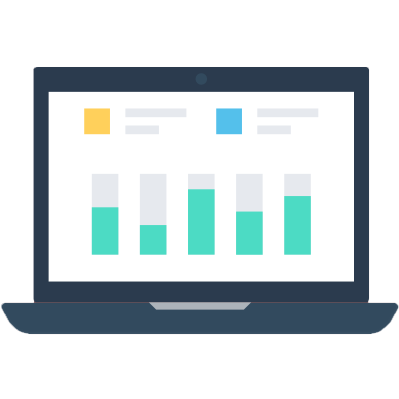
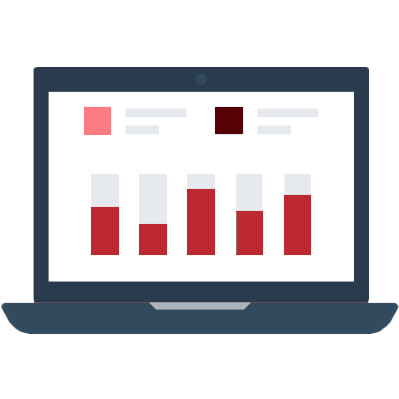
red theme changes

diff --git a/index.html b/index.html
@@ -11,9 +11,9 @@
 
   gtag('config', 'UA-142700427-1');
 </script>
-  
-  
-  
+
+
+
   <meta charset="utf-8" />
   <!-- To ensure proper rendering and touch zooming -->
   <meta name="viewport" content="width=device-width, initial-scale=1.0 maximum-scale=1.0, user-scalable=no, minimal-ui">
@@ -67,11 +67,11 @@
     <![endif]-->
   <style>
     @import url('fonts/GothamMedium-Regular.css');
-        @import url('fonts/GothamThin-Regular.css');
-        @import url('fonts/Gotham-Light.css');
-        @import url('fonts/ProximaNova-Light.css');
-        @import url('fonts/ProximaNova-Regular.css');
-    </style>
+    @import url('fonts/GothamThin-Regular.css');
+    @import url('fonts/Gotham-Light.css');
+    @import url('fonts/ProximaNova-Light.css');
+    @import url('fonts/ProximaNova-Regular.css');
+  </style>
 </head>
 
 <body>
@@ -103,7 +103,7 @@
   <!--  </div>-->
   <div id="sections">
     <div class="section container-fluid" id="availability">
-      <img alt="wifi" class="img-responsive center-block" src="images/cartoonCal.jpg">
+      <img alt="wifi" class="img-responsive center-block" src="images/cartoonCalred.jpg">
       <h1 class="subheader">Availability Manager</h1>
       <p><b>Take control of your time</b> by setting and editing your available hours around your personal schedule.</p>
       <p><i>"Car broke down? Can't make an appointment? Let your customer know and allow them to reschedule."</i></p>
@@ -122,64 +122,105 @@
     </div>
     <div class="section container-fluid" id="business">
       <img alt="email" class="img-responsive center-block" src="images/laptop.png">
-        
+
       <h1 class="subheader">Analytics and Statistics</h1>
       <p><b>Grow your following</b> and keep track of your active customers to keep them informed.</p>
       <p><i>"Sit back and watch your earnings grow."</i></p>
-        <div style="font-size: 12px">Icons made by <a href="https://www.flaticon.com/authors/vectors-market" title="Vectors Market">Vectors Market</a> from <a href="https://www.flaticon.com/"                 title="Flaticon">www.flaticon.com</a> is licensed by <a href="http://creativecommons.org/licenses/by/3.0/"                 title="Creative Commons BY 3.0" target="_blank">CC 3.0 BY</a></div>
+      <div style="font-size: 12px">Icons made by <a href="https://www.flaticon.com/authors/vectors-market" title="Vectors Market">Vectors Market</a> from <a href="https://www.flaticon.com/" title="Flaticon">www.flaticon.com</a> is licensed by <a href="http://creativecommons.org/licenses/by/3.0/" title="Creative Commons BY 3.0" target="_blank">CC 3.0 BY</a></div>
     </div>
     <div class="section container-fluid" id=beta>
-      <h1 class="subheader">START HUSTLING<br><small>SydeHustle</small></h1>
-      
-        
-        
-      <ul>
-          <!-- Begin Mailchimp Signup Form -->
-<link href="//cdn-images.mailchimp.com/embedcode/classic-10_7.css" rel="stylesheet" type="text/css">
-<style type="text/css">
-	#mc_embed_signup{background:transparent; clear:left; font:16px Bebas,Arial,sans-serif; }
-	/* Add your own Mailchimp form style overrides in your site stylesheet or in this style block.
-	   We recommend moving this block and the preceding CSS link to the HEAD of your HTML file. */
-</style>
-<div id="mc_embed_signup">
-<form action="https://sydehustle.us3.list-manage.com/subscribe/post?u=0788cb29f1caa279d833e0827&amp;id=5337497d90" method="post" id="mc-embedded-subscribe-form" name="mc-embedded-subscribe-form" class="validate" target="_blank" novalidate>
-    <div id="mc_embed_signup_scroll">
-            <div class="mdl-textfield mdl-js-textfield mdl-textfield--floating-label">
-              <input type="email" value="" name="EMAIL" class="required email mdl-textfield__input input-style" id="mce-EMAIL">
-              <label for="mce-EMAIL" class="mdl-textfield__label input-style">EMAIL ADDRESS</label>
-            </div>
-            <br>
-            <div class="mdl-textfield mdl-js-textfield mdl-textfield--floating-label input-name">
-              <input type="text" value="" name="FNAME" class="required mdl-textfield__input input-style" id="mce-FNAME">
-              <label for="mce-FNAME" class="mdl-textfield__label input-style">FIRST NAME</label>
-            </div>
-            <div class="mdl-textfield mdl-js-textfield mdl-textfield--floating-label input-name">
-              <input type="text" value="" name="LNAME" class="mdl-textfield__input input-style" id="mce-LNAME">
-              <label for="mce-LNAME" class="mdl-textfield__label input-style">LAST NAME</label>
-            </div>
-            <div id="mce-responses" class="clear">
-              <div class="response" id="mce-error-response" style="display:none;"></div>
-              <div class="response" id="mce-success-response" style="display:none"></div>
-            </div>
-            <!-- real people should not fill this in and expect good things - do not remove this or risk form bot signups-->
-            <div style="position: absolute; left: -5000px;" aria-hidden="true">
-              <input type="text" name="b_1208f3fd97840ead28d1bb805_62d65557ca" tabindex="-1" value="">
-            </div>
-            <br>
-            <div class="clear">
-              <button class="mdl-button mdl-js-button mdl-button--raised mdl-js-ripple-effect subscribe-btn-format" onclick="location.href = 'http://app.sydehustle.co/#/';">
-                <h1 class="btn-txt-color">Subscribe</h1>
-              </button>
+      <h1 class="subheader" style="padding-left: 2.5%;">START HUSTLING<br><small>SydeHustle</small></h1>
+      <div id="talk"></div>
 
+
+      <ul>
+        <!-- Begin Mailchimp Signup Form -->
+        <link href="//cdn-images.mailchimp.com/embedcode/classic-10_7.css" rel="stylesheet" type="text/css">
+        <style type="text/css">
+          #mc_embed_signup {
+            background: transparent;
+            clear: left;
+            font: 16px Bebas, Arial, sans-serif;
+          }
+
+          .sub-btn {
+            background-color: #BE2831;
+            border: 1px solid #2A2B2D;
+            padding: 0 112px 0 112px;
+            border-radius: 5px;
+          }
+
+
+          .mdl-textfield.is-focused .mdl-textfield__label {
+            color: white;
+          }
+
+          .mdl-textfield__label:after {
+            background-color: white;
+          }
+
+
+          /* Add your own Mailchimp form style overrides in your site stylesheet or in this style block.
+	   We recommend moving this block and the preceding CSS link to the HEAD of your HTML file. */
+        </style>
+        <div id="mc_embed_signup" style="margin: 0;">
+          <form action="https://sydehustle.us3.list-manage.com/subscribe/post?u=0788cb29f1caa279d833e0827&amp;id=5337497d90" method="post" id="mc-embedded-subscribe-form" name="mc-embedded-subscribe-form" class="validate" target="_blank" novalidate>
+            <div id="mc_embed_signup_scroll">
+              <div class="mdl-textfield mdl-js-textfield mdl-textfield--floating-label">
+                <input type="email" value="" name="EMAIL" class="required email mdl-textfield__input input-style" id="mce-EMAIL">
+                <label for="mce-EMAIL" class="mdl-textfield__label input-style">EMAIL ADDRESS</label>
+              </div>
+              <br>
+              <div class="mdl-textfield mdl-js-textfield mdl-textfield--floating-label input-name">
+                <input type="text" value="" name="FNAME" class="required mdl-textfield__input input-style" id="mce-FNAME">
+                <label for="mce-FNAME" class="mdl-textfield__label input-style">FIRST NAME</label>
+              </div>
+              <div class="mdl-textfield mdl-js-textfield mdl-textfield--floating-label input-name">
+                <input type="text" value="" name="LNAME" class="mdl-textfield__input input-style" id="mce-LNAME">
+                <label for="mce-LNAME" class="mdl-textfield__label input-style">LAST NAME</label>
+              </div>
+              <div id="mce-responses" class="clear">
+                <div class="response" id="mce-error-response" style="display:none;"></div>
+                <div class="response" id="mce-success-response" style="display:none"></div>
+              </div>
+              <!-- real people should not fill this in and expect good things - do not remove this or risk form bot signups-->
+              <div style="position: absolute; left: -5000px;" aria-hidden="true">
+                <input type="text" name="b_1208f3fd97840ead28d1bb805_62d65557ca" tabindex="-1" value="">
+              </div>
+              <br>
+              <div class="clear">
+                <button class="sub-btn" onclick="location.href = 'http://app.sydehustle.co/#/';">
+                  <h1 class="btn-txt-color">Subscribe</h1>
+                </button>
+
+              </div>
             </div>
-          </div>
-    </form>
-</div>
-<script type='text/javascript' src='//s3.amazonaws.com/downloads.mailchimp.com/js/mc-validate.js'></script><script type='text/javascript'>(function($) {window.fnames = new Array(); window.ftypes = new Array();fnames[0]='EMAIL';ftypes[0]='email';fnames[1]='FNAME';ftypes[1]='text';fnames[2]='LNAME';ftypes[2]='text';fnames[3]='ADDRESS';ftypes[3]='address';fnames[4]='PHONE';ftypes[4]='phone';fnames[5]='BIRTHDAY';ftypes[5]='birthday';}(jQuery));var $mcj = jQuery.noConflict(true);</script>
-<!--End mc_embed_signup-->
+          </form>
+        </div>
+        <script type='text/javascript' src='//s3.amazonaws.com/downloads.mailchimp.com/js/mc-validate.js'></script>
+        <script type='text/javascript'>
+          (function($) {
+            window.fnames = new Array();
+            window.ftypes = new Array();
+            fnames[0] = 'EMAIL';
+            ftypes[0] = 'email';
+            fnames[1] = 'FNAME';
+            ftypes[1] = 'text';
+            fnames[2] = 'LNAME';
+            ftypes[2] = 'text';
+            fnames[3] = 'ADDRESS';
+            ftypes[3] = 'address';
+            fnames[4] = 'PHONE';
+            ftypes[4] = 'phone';
+            fnames[5] = 'BIRTHDAY';
+            ftypes[5] = 'birthday';
+          }(jQuery));
+          var $mcj = jQuery.noConflict(true);
+        </script>
+        <!--End mc_embed_signup-->
       </ul>
     </div>
-    
+
   </div>
   <!--Footer-->
   <footer id="footer">

diff --git a/css/styles.css b/css/styles.css
@@ -301,7 +301,7 @@ a#log_in:hover {
   clear: both;
   text-align: center;
   vertical-align: middle;
-/*  opacity: */
+  /*  opacity: */
 }
 
 .transbox {
@@ -310,7 +310,8 @@ a#log_in:hover {
   background-color: black;
   opacity: 0.85;
 }
-.imgText{
+
+.imgText {
   opacity: 1.0;
   background-color: transparent;
 }
@@ -473,7 +474,7 @@ a#log_in:hover {
 
 #beta {
   padding-top: 10%;
-  padding-left: 10%;
+  padding-left: 7.5%;
   padding-right: 10%;
   padding-bottom: 10%;
   background: #c9baaf url("../images/hustleCoffee.jpg");
@@ -544,7 +545,7 @@ a#log_in:hover {
 /* Section - Footer */
 
 footer {
-/*  background-color: #2C2C2C;*/
+  /*  background-color: #2C2C2C;*/
   background-color: #1B1B1B;
   color: #3d3d3d;
   padding-top: 4rem;
@@ -609,3 +610,4 @@ a#twitter:hover {
 .login-btn {
   color: white;
 }
+
